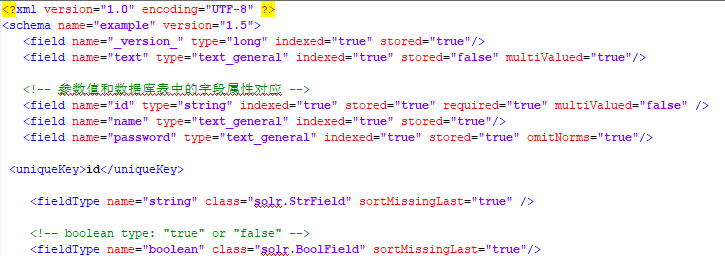
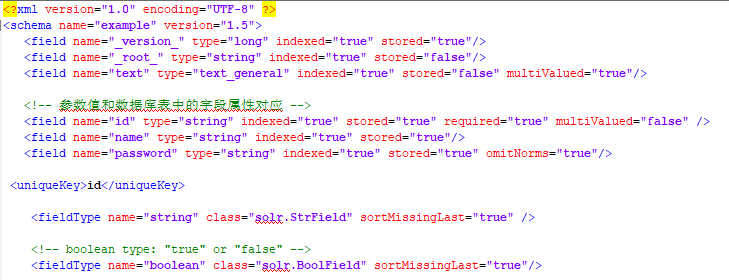
Site updated: 2019-12-28 01:10:18

diff --git a/2019/12/26/Solr的简单安装及部署/index.html b/2019/12/26/Solr的简单安装及部署/index.html
@@ -106,7 +106,12 @@
 <meta property="og:image" content="http://yoursite.com/2019/12/26/Solr的简单安装及部署/select.png">
 <meta property="og:image" content="http://yoursite.com/2019/12/26/Solr的简单安装及部署/data-config.png">
 <meta property="og:image" content="http://yoursite.com/2019/12/26/Solr的简单安装及部署/schema.png">
-<meta property="og:updated_time" content="2019-12-27T15:04:41.008Z">
+<meta property="og:image" content="http://yoursite.com/2019/12/26/Solr的简单安装及部署/%E5%AF%BC%E5%85%A5%E6%95%B0%E6%8D%AE.png">
+<meta property="og:image" content="http://yoursite.com/2019/12/26/Solr的简单安装及部署/%E5%AF%BC%E5%85%A5%E7%BB%93%E6%9E%9C.png">
+<meta property="og:image" content="http://yoursite.com/2019/12/26/Solr的简单安装及部署/query.png">
+<meta property="og:image" content="http://yoursite.com/2019/12/26/Solr的简单安装及部署/failure.png">
+<meta property="og:image" content="http://yoursite.com/2019/12/26/Solr的简单安装及部署/text.png">
+<meta property="og:updated_time" content="2019-12-27T17:09:53.441Z">
 <meta name="twitter:card" content="summary">
 <meta name="twitter:title" content="Solr的简单安装及部署">
 <meta name="twitter:description" content="下载Solr下载地址：http://archive.apache.org/dist/lucene/solr/ 选择4.9.1版本  安装由于solr本身就是一个war的包，因此安装就是等于将它放置Tomcat容器中进行部署。解压下载的zip包，将dist/solr-4.9.1.war文件复制到tomcat的webapps目录下，并命名为solr.war  将zip包解压后的example\lib\">
@@ -350,11 +355,11 @@
 <p><img src="/2019/12/26/Solr的简单安装及部署/%E5%A4%8D%E5%88%B6.png" alt="复制"><br>打开test文件夹，修改core.properties文件，将那么修改为test</p>
 <p><img src="/2019/12/26/Solr的简单安装及部署/core%E6%96%87%E4%BB%B6.png" alt="core文件"><br><img src="/2019/12/26/Solr的简单安装及部署/name.png" alt="name"><br>重新启动tomcat并访问solr，若出现我们新增的test模块，则说明新建core成功<br><img src="/2019/12/26/Solr的简单安装及部署/test.png" alt="test"></p>
 <h2 id="配置导入数据"><a href="#配置导入数据" class="headerlink" title="配置导入数据"></a>配置导入数据</h2><p>到现在为止，我们已经将solr的基本配置完成了，并且创建了一个名为test的Core，接下来我们需要做的就是把MySQL数据库和我们的搜索引擎关联起来，让Solr搜索引擎能够访问我们数据库中的数据，并建立自己的索引</p>
-<h3 id="导入jar包"><a href="#导入jar包" class="headerlink" title="导入jar包"></a>导入jar包</h3><p>1.下载数据库连接的jar包到Tomcat的lib目录。这里使用的mysql-connector-java-5.1.18.jar(jar包版本需要和项目中使用MySQL的jar包版本一致)</p>
+<h3 id="导入jar包"><a href="#导入jar包" class="headerlink" title="导入jar包"></a>导入jar包</h3><p>1.下载数据库连接的jar包到Tomcat的lib目录。这里使用的mysql-connector-java-8.0.18.jar(jar包版本需要和项目中使用MySQL的jar包版本一致)</p>
 <pre><code>下载地址：https://mvnrepository.com/artifact/mysql/mysql-connector-java</code></pre><p><img src="/2019/12/26/Solr的简单安装及部署/mysql-jar.png" alt="mysql的jar包"></p>
 <p>2.在solr解压的dist目录复制如下两个jar到Tomcat的webapps/solr/lib目录中（该jar是用来向solr引擎中导入数据）。</p>
 <p><img src="/2019/12/26/Solr的简单安装及部署/dataimport.png" alt="导入数据的jar"></p>
-<h3 id="数据导入处理器"><a href="#数据导入处理器" class="headerlink" title="数据导入处理器"></a>数据导入处理器</h3><p>打开solr_home下的test\conf\solrconfig.xml文件。在 &lt; requestHandler name=”/select” class=”solr.SearchHandler”&gt;节点的前面加上数据导入的处理器节点。内容如下<br><img src="/2019/12/26/Solr的简单安装及部署/select.png" alt="导入数据的节点"></p>
+<h3 id="数据导入处理器"><a href="#数据导入处理器" class="headerlink" title="数据导入处理器"></a>数据导入处理器</h3><p>打开solr_home下的test\conf\solrconfig.xml文件。在 &lt; requestHandler name=”/select”class=”solr.SearchHandler”&gt;节点的前面加上数据导入的处理器节点。内容如下<br><img src="/2019/12/26/Solr的简单安装及部署/select.png" alt="导入数据的节点"></p>
 <pre><code>&lt;requestHandler name=&quot;/dataimport&quot;
     class=&quot;org.apache.solr.handler.dataimport.DataImportHandler&quot;&gt;
     &lt;lst name=&quot;defaults&quot;&gt;
@@ -363,7 +368,8 @@
 &lt;/requestHandler&gt;</code></pre><h3 id="数据导入配置"><a href="#数据导入配置" class="headerlink" title="数据导入配置"></a>数据导入配置</h3><p>在test\conf目录下新建data-config.xml文件，内容如下<br><img src="/2019/12/26/Solr的简单安装及部署/data-config.png" alt="data-config"></p>
 <pre><code>&lt;?xml version=&quot;1.0&quot; encoding=&quot;UTF-8&quot;?&gt;
 &lt;dataConfig&gt;
-&lt;dataSource type=&quot;JdbcDataSource&quot; driver=&quot;com.mysql.cj.jdbc.Driver&quot;        url=&quot;jdbc:mysql://49.233.190.148:3306/test&quot; user=&quot;root&quot; password=&quot;root&quot; /&gt;
+&lt;dataSource type=&quot;JdbcDataSource&quot; driver=&quot;com.mysql.cj.jdbc.Driver&quot;        
+url=&quot;jdbc:mysql://49.233.190.148:3306/test&quot; user=&quot;root&quot; password=&quot;root&quot; /&gt;
 &lt;document name=&quot;test&quot;&gt;
     &lt;entity name=&quot;user&quot; pk=&quot;id&quot; query=&quot;select id,name,password from user&quot;&gt;
         &lt;field column=&quot;id&quot; name=&quot;t_id&quot;/&gt;
@@ -372,6 +378,23 @@
     &lt;/entity&gt;
 &lt;/document&gt;
 &lt;/dataConfig&gt;</code></pre><h3 id="索引和字段展示配置"><a href="#索引和字段展示配置" class="headerlink" title="索引和字段展示配置"></a>索引和字段展示配置</h3><p>打开test\conf\schema.xml文件。该文件是solr对数据库里面的数据进行索引管理和数据字段展示管理的配置文件<br><img src="/2019/12/26/Solr的简单安装及部署/schema.png" alt="schema文件"><br>需要把与data-config中没有相关的字段全部删除，删除至&lt; fieldType&gt;节点</p>
+<pre><code>&lt;?xml version=&quot;1.0&quot; encoding=&quot;UTF-8&quot; ?&gt;
+&lt;schema name=&quot;example&quot; version=&quot;1.5&quot;&gt;
+   &lt;field name=&quot;_version_&quot; type=&quot;long&quot; indexed=&quot;true&quot; stored=&quot;true&quot;/&gt;
+   &lt;field name=&quot;_root_&quot; type=&quot;string&quot; indexed=&quot;true&quot; stored=&quot;false&quot;/&gt;
+   &lt;field name=&quot;text&quot; type=&quot;text_general&quot; indexed=&quot;true&quot; stored=&quot;false&quot; multiValued=&quot;true&quot;/&gt;
+
+&lt;!-- 参数值和数据库表中的字段属性对应 --&gt;
+
+   &lt;field name=&quot;id&quot; type=&quot;string&quot; indexed=&quot;true&quot; stored=&quot;true&quot; required=&quot;true&quot; multiValued=&quot;false&quot; /&gt;         
+   &lt;field name=&quot;name&quot; type=&quot;string&quot; indexed=&quot;true&quot; stored=&quot;true&quot;/&gt;
+   &lt;field name=&quot;password&quot; type=&quot;string&quot; indexed=&quot;true&quot; stored=&quot;true&quot; omitNorms=&quot;true&quot;/&gt;
+ &lt;uniqueKey&gt;id&lt;/uniqueKey&gt;
+&lt;fieldType name=&quot;string&quot; class=&quot;solr.StrField&quot; sortMissingLast=&quot;true&quot; /&gt;
+&lt;!-- boolean type: &quot;true&quot; or &quot;false&quot; --&gt;
+   &lt;fieldType name=&quot;boolean&quot; class=&quot;solr.BoolField&quot; sortMissingLast=&quot;true&quot;/&gt;</code></pre><h3 id="执行导入"><a href="#执行导入" class="headerlink" title="执行导入"></a>执行导入</h3><p>以上配置完成之后，重启Tomcat，并访问solr<br><img src="/2019/12/26/Solr的简单安装及部署/%E5%AF%BC%E5%85%A5%E6%95%B0%E6%8D%AE.png" alt="导入数据"><br><img src="/2019/12/26/Solr的简单安装及部署/%E5%AF%BC%E5%85%A5%E7%BB%93%E6%9E%9C.png" alt="导入结果"><br><img src="/2019/12/26/Solr的简单安装及部署/query.png" alt="查询结果"></p>
+<h2 id="异常"><a href="#异常" class="headerlink" title="异常"></a>异常</h2><h3 id="异常1"><a href="#异常1" class="headerlink" title="异常1"></a>异常1</h3><p>导入数据的jar包没有导入。<br><img src="/2019/12/26/Solr的简单安装及部署/failure.png" alt="异常1"><br>解决办法：回到《配置导入数据》</p>
+<h3 id="异常2"><a href="#异常2" class="headerlink" title="异常2"></a>异常2</h3><p>data-config.xml文件中的字段与schema.xml的字段没有对应(bug解决完之后他不出来了，图片敷衍了)<br><img src="/2019/12/26/Solr的简单安装及部署/text.png" alt="异常2"><br>解决办法：删除多余的字段，或添加新的节点与其对应</p>
 
       
     </div>
@@ -567,7 +590,7 @@
             
 
             
-              <div class="post-toc-content"><ol class="nav"><li class="nav-item nav-level-2"><a class="nav-link" href="#下载Solr"><span class="nav-number">1.</span> <span class="nav-text">下载Solr</span></a></li><li class="nav-item nav-level-2"><a class="nav-link" href="#安装"><span class="nav-number">2.</span> <span class="nav-text">安装</span></a></li><li class="nav-item nav-level-2"><a class="nav-link" href="#为项目建立搜索模块"><span class="nav-number">3.</span> <span class="nav-text">为项目建立搜索模块</span></a></li><li class="nav-item nav-level-2"><a class="nav-link" href="#配置导入数据"><span class="nav-number">4.</span> <span class="nav-text">配置导入数据</span></a><ol class="nav-child"><li class="nav-item nav-level-3"><a class="nav-link" href="#导入jar包"><span class="nav-number">4.1.</span> <span class="nav-text">导入jar包</span></a></li><li class="nav-item nav-level-3"><a class="nav-link" href="#数据导入处理器"><span class="nav-number">4.2.</span> <span class="nav-text">数据导入处理器</span></a></li><li class="nav-item nav-level-3"><a class="nav-link" href="#数据导入配置"><span class="nav-number">4.3.</span> <span class="nav-text">数据导入配置</span></a></li><li class="nav-item nav-level-3"><a class="nav-link" href="#索引和字段展示配置"><span class="nav-number">4.4.</span> <span class="nav-text">索引和字段展示配置</span></a></li></ol></li></ol></div>
+              <div class="post-toc-content"><ol class="nav"><li class="nav-item nav-level-2"><a class="nav-link" href="#下载Solr"><span class="nav-number">1.</span> <span class="nav-text">下载Solr</span></a></li><li class="nav-item nav-level-2"><a class="nav-link" href="#安装"><span class="nav-number">2.</span> <span class="nav-text">安装</span></a></li><li class="nav-item nav-level-2"><a class="nav-link" href="#为项目建立搜索模块"><span class="nav-number">3.</span> <span class="nav-text">为项目建立搜索模块</span></a></li><li class="nav-item nav-level-2"><a class="nav-link" href="#配置导入数据"><span class="nav-number">4.</span> <span class="nav-text">配置导入数据</span></a><ol class="nav-child"><li class="nav-item nav-level-3"><a class="nav-link" href="#导入jar包"><span class="nav-number">4.1.</span> <span class="nav-text">导入jar包</span></a></li><li class="nav-item nav-level-3"><a class="nav-link" href="#数据导入处理器"><span class="nav-number">4.2.</span> <span class="nav-text">数据导入处理器</span></a></li><li class="nav-item nav-level-3"><a class="nav-link" href="#数据导入配置"><span class="nav-number">4.3.</span> <span class="nav-text">数据导入配置</span></a></li><li class="nav-item nav-level-3"><a class="nav-link" href="#索引和字段展示配置"><span class="nav-number">4.4.</span> <span class="nav-text">索引和字段展示配置</span></a></li><li class="nav-item nav-level-3"><a class="nav-link" href="#执行导入"><span class="nav-number">4.5.</span> <span class="nav-text">执行导入</span></a></li></ol></li><li class="nav-item nav-level-2"><a class="nav-link" href="#异常"><span class="nav-number">5.</span> <span class="nav-text">异常</span></a><ol class="nav-child"><li class="nav-item nav-level-3"><a class="nav-link" href="#异常1"><span class="nav-number">5.1.</span> <span class="nav-text">异常1</span></a></li><li class="nav-item nav-level-3"><a class="nav-link" href="#异常2"><span class="nav-number">5.2.</span> <span class="nav-text">异常2</span></a></li></ol></li></ol></div>
             
 
           </div>
